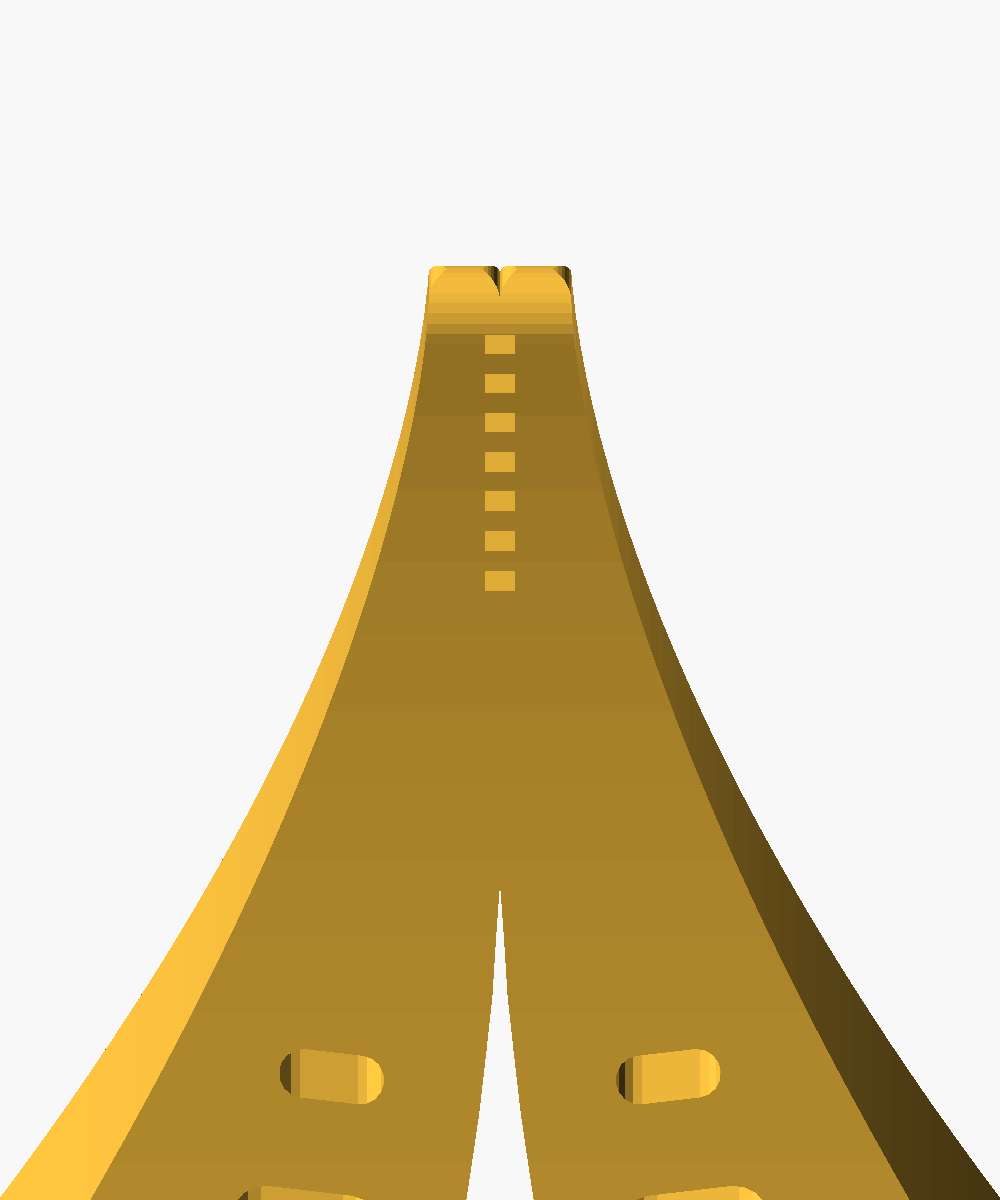
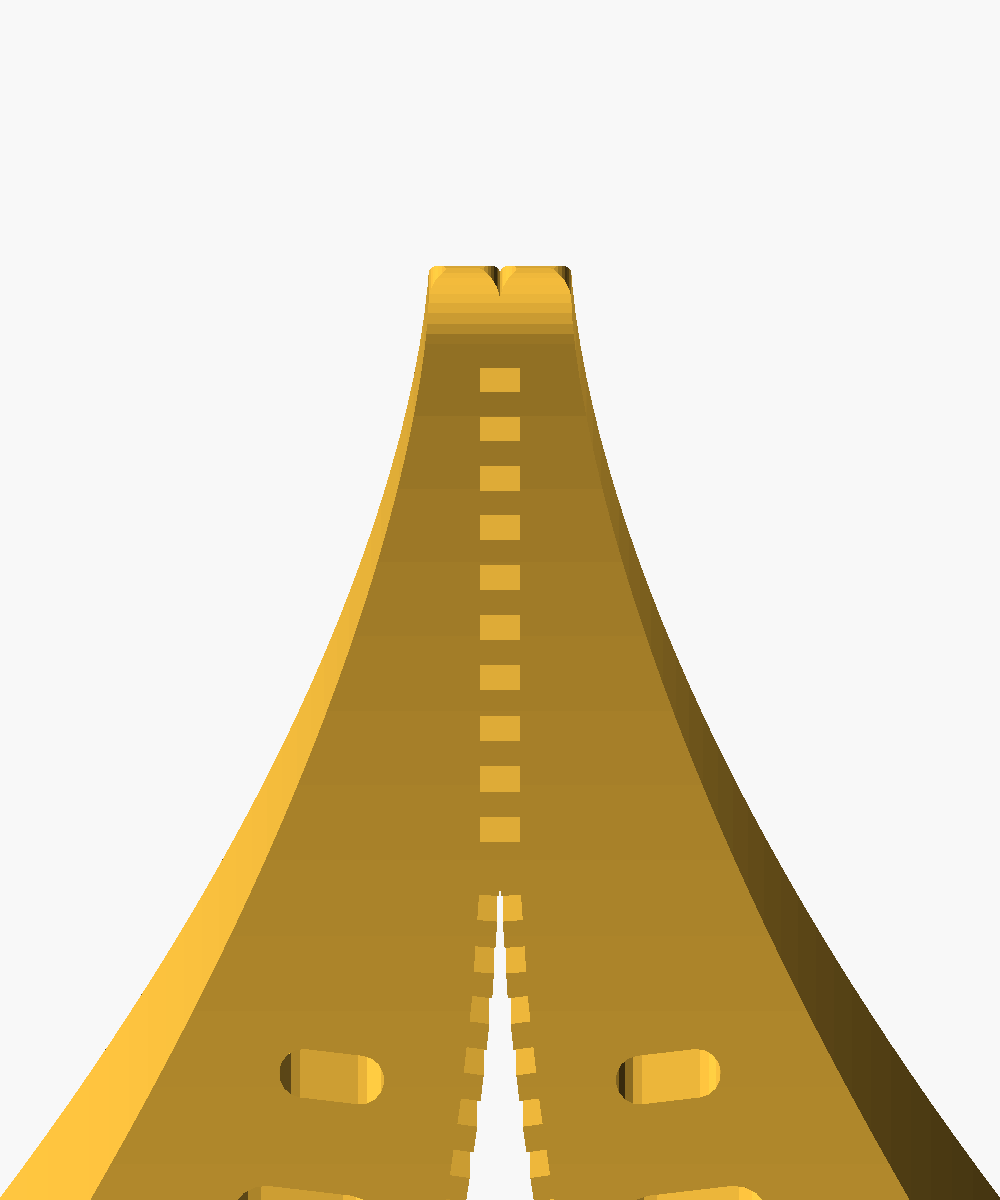
feat(gen12): serration along the whole inner edge (voice-438af2a9)

Changed region(s): [[0.465, 0.2775, 0.527, 0.7092], [0.434, 0.74, 0.558, 0.9867]]

diff --git a/Two Finger Gripper/versions/v012_generalist_tweezer/trace_photo.py b/Two Finger Gripper/versions/v012_generalist_tweezer/trace_photo.py
@@ -48,11 +48,11 @@ NEEDLE_Q=(1.05,1.12)   # Gen 11, per edge: g(f)=(1-f)^Q (1+A f). Q>1 sharpens th
 NEEDLE_TAIL=(0.6,20)    # r3: half-width floor 0.6 d (1-d/20) over the last 20 px (4 mm): >= 0.9 mm across 1 mm back,
                         # where (1-f)^Q alone left a 0.5 mm sliver that prints as one line. Zero further back.
 # The slot row sits 4 px outboard of the Gen 7 trace (Gen 10: 2 px), so the narrowed jaw keeps a wall.
-# Ridges (Gen 11): a groove every RIDGE_PITCH_PX along the jaw's inner edge, from RIDGE_FROM to where the
+# Ridges (Gen 11; Gen 12 r2 starts them at the head corner again): a groove every RIDGE_PITCH_PX along the inner edge, from RIDGE_FROM to where the
 # blade gets too narrow to carry one, each across the full thickness. r4: only the gripping jaw/beak, as in
 # robot.png. r1-r3 ran them from the head corner down the whole inner edge, which read as a saw (Jake).
 RIDGE_PITCH_PX=5.0     # 1.0 mm at 0.2 mm/px
-RIDGE_FROM=(713.0,524.0)   # r4: the jaw, from the last step face below the beak shoulder; r2-r3: the head corner (423,336)
+RIDGE_FROM=(423.0,336.0)   # Gen 12 r2: the head corner, so the serration spans the whole inner edge (Jake, closed.png); Gen 11 r4: the jaw only (713,524)
 RIDGE_CORNER_DEG=100   # skip a groove only at a corner sharper than this within +-1 mm; the ribs carry on over the step faces (robot.png, r2-r3)
 GROOVE_PX=(2.5,2.5)    # groove width and depth in px, as gripper.scad cuts them (ridge[1], ridge[2])
 RIDGE_MIN_WIDTH_PX=9    # stop where the blade is narrower than 1.8 mm across (r3: runs to ~1.5 mm from the point; r1-r2: 2.6 mm). At 1.6 mm two tip grooves left a pinhole

diff --git a/Two Finger Gripper/versions/v012_generalist_tweezer/README.md b/Two Finger Gripper/versions/v012_generalist_tweezer/README.md
@@ -24,9 +24,12 @@ the pair follows thumb and index the same way Gen 11 does. Earlier generations a
 - **Flatter blade.** The thickness along Y now thins along `(1−f)^1.5` (Gen 11: `1−f²`, a beak).
   It thins early and levels off, so the tip is a flat 2.4 × 1.4 mm pad with a rounded end,
   not a point.
-- **Grooves near the tip only.** Gen 11's 29 jaw grooves are gone. In their place are 7 fine
-  cross-cuts (0.3 mm deep, 0.4 mm wide, 0.8 mm pitch) on the land, 1–6 mm back from the tip.
-  This follows the Gen 10 vs 11 note: shallow grooves on the gripping jaw near the tip only.
+- **Serration along the whole inner edge (r2).** Fine cross-cuts (0.4 mm deep, 0.5 mm wide,
+  1 mm pitch) run from the head corner down the entire inner edge and along the land, stopping
+  1 mm short of the tip. Jake: the closed reference photo shows the serration spanning
+  essentially the entire inner edge (r1 had cut only 7 grooves near the tip). The traced edge's
+  stations come from `trace_photo.py` (`RIDGE_FROM` is the head corner); the land's are straight
+  cuts in `ridges2d`. Each groove keeps 0.6 mm of wall to every hole.
 - **Slots.** Gen 11's last three blade slots don't fit in the slender tine, so they are dropped
   (`slots_kept`). That leaves 30 designed through-holes (Gen 11: 33).
 
